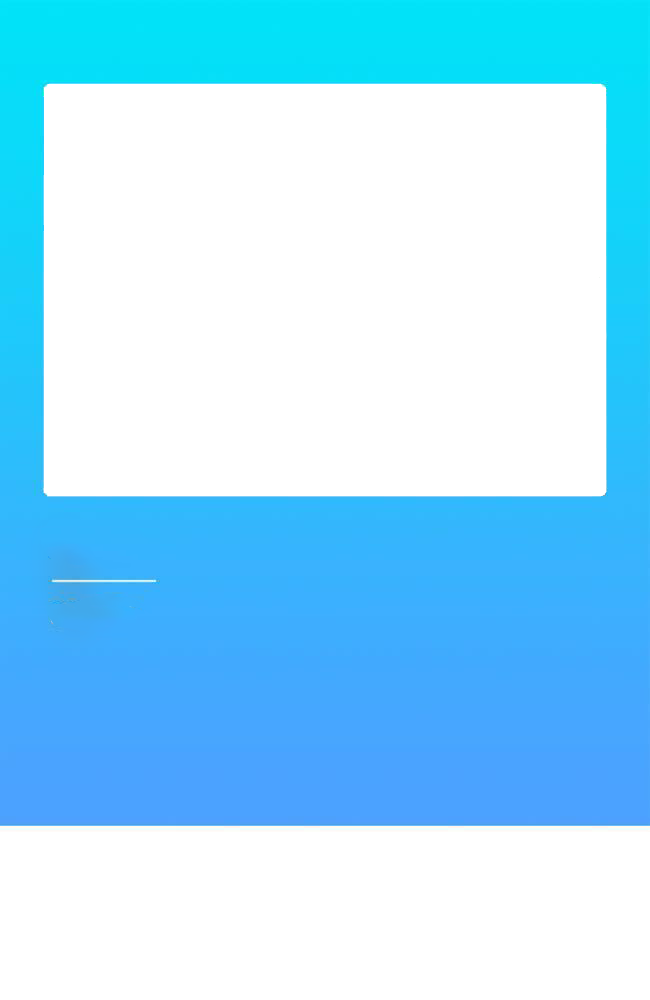
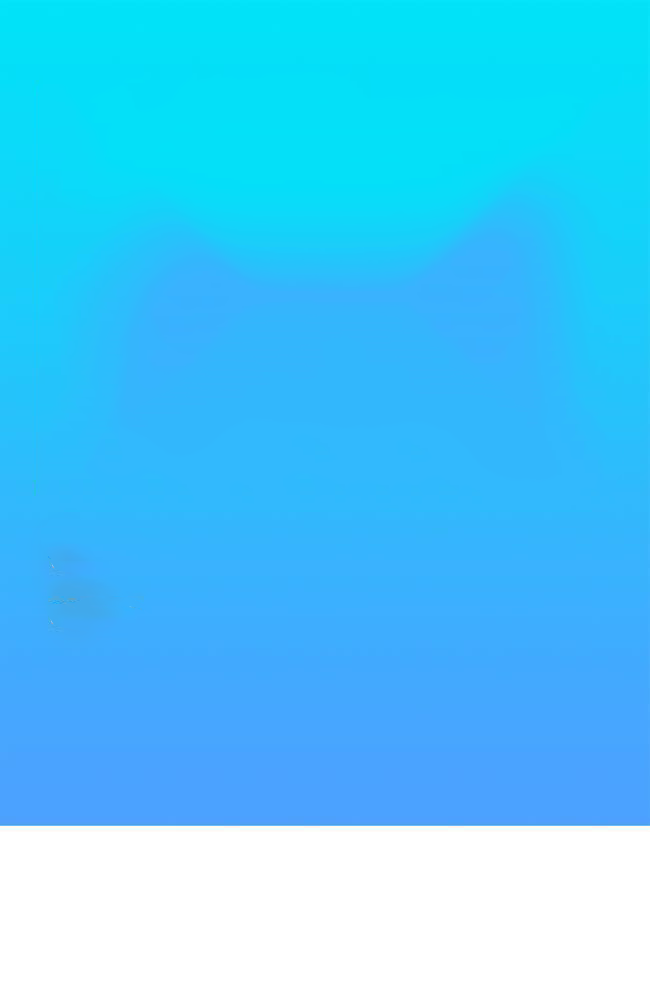
楼盘分享图片生成调整

diff --git a/code/real-estate-sales-wx/utils/image.js b/code/real-estate-sales-wx/utils/image.js
@@ -1,82 +1,171 @@
 export default class LastMayday {
-  palette(bg, articleTitleUrl, code, logo, title, content) {
+  palette(bg, code, logo, contact, title, content, articleTitleUrl1, articleTitleUrl2, articleTitleUrl3, articleTitleUrl4, articleTitleUrl5, articleTitleUrl6) {
     return ({
-      width: '650rpx',
-      height: '1000rpx',
+      width: '680rpx',
+      height: '1246rpx',
       background: bg, //"./../../lib/image/bz_bg.png",//bg
       views: [{
-          type: 'text',
-          text: title, 
+          type: 'image',
+          url: articleTitleUrl1,
           css: {
-            fontSize: '36rpx',
-            top: `${520}rpx`,
+            top: `${10}rpx`,
+            left: `${10}rpx`,
+            mode: 'scaleToFill',
+            width: '320rpx',
+            height: '230rpx',
+            borderWidth: '5rpx',
+            borderColor: '#fff'
+            /*rotate: rotate,*/
+            // borderRadius: borderRadius,
+          },
+        },
+        {
+          type: 'image',
+          url: articleTitleUrl2,
+          css: {
+            top: `${10}rpx`,
+            left: `${350}rpx`,
+            mode: 'scaleToFill',
+            width: '320rpx',
+            height: '230rpx',
+            borderWidth: '5rpx',
+            borderColor: '#fff'
+            /*rotate: rotate,*/
+            // borderRadius: borderRadius,
+          },
+        },
+        {
+          type: 'image',
+          url: articleTitleUrl3,
+          css: {
+            top: `${260}rpx`,
+            left: `${10}rpx`,
+            mode: 'scaleToFill',
+            width: '320rpx',
+            height: '230rpx',
+            borderWidth: '5rpx',
+            borderColor: '#fff'
+            /*rotate: rotate,*/
+            // borderRadius: borderRadius,
+          },
+        },
+        {
+          type: 'image',
+          url: articleTitleUrl4,
+          css: {
+            top: `${260}rpx`,
+            left: `${350}rpx`,
+            mode: 'scaleToFill',
+            width: '320rpx',
+            height: '230rpx',
+            borderWidth: '5rpx',
+            borderColor: '#fff'
+            /*rotate: rotate,*/
+            // borderRadius: borderRadius,
+          },
+        },
+        {
+          type: 'image',
+          url: articleTitleUrl5,
+          css: {
+            top: `${510}rpx`,
+            left: `${10}rpx`,
+            mode: 'scaleToFill',
+            width: '320rpx',
+            height: '230rpx',
+            borderWidth: '5rpx',
+            borderColor: '#fff'
+            /*rotate: rotate,*/
+            // borderRadius: borderRadius,
+          },
+        },
+        {
+          type: 'image',
+          url: articleTitleUrl6,
+          css: {
+            top: `${510}rpx`,
+            left: `${350}rpx`,
+            mode: 'scaleToFill',
+            width: '320rpx',
+            height: '230rpx',
+            borderWidth: '5rpx',
+            borderColor: '#fff'
+            /*rotate: rotate,*/
+            // borderRadius: borderRadius,
+          },
+        },
+        {
+          type: 'image',
+          url: logo,
+          css: {
+            top: `${0}rpx`,
             left: `${50}rpx`,
-            color: '#fff',
+            width: '150rpx',
+            height: '50rpx'
+          },
+        }, 
+        {
+          type: 'text',
+          text: contact,
+          css: {
+            fontSize: '26rpx',
+            bottom: `${100}rpx`,
+            left: `${50}rpx`,
+            color: '#545458',
+            width: '550rpx',
+            fontWeight: 'bold',
+            maxLines: 1,
+          }
+        },
+        {
+          type: 'text',
+          text: title,
+          css: {
+            fontSize: '34rpx',
+            fontWeight: 'bold',
+            bottom: `${160}rpx`,
+            left: `${50}rpx`,
+            color: '#545458',
             width: '550rpx',
             maxLines: 1,
           }
         },
         {
           type: 'text',
-          text: content, 
+          text: content,
           css: {
             fontSize: '26rpx',
-            top: `${600}rpx`,
+            top: `${790}rpx`,
             left: `${50}rpx`,
             color: '#fff',
             width: '550rpx',
-            maxLines: 5,
-            lineHeight: '45rpx'
+            maxLines: 4,
+            lineHeight: '55rpx'
           }
         },
         {
           type: 'text',
-          text: '长按小程序码阅读图文详情',
+          text: '欢迎长按小程序码识别该房源',
           css: {
-            fontSize: '26rpx',
-            bottom: `${30}rpx`,
-            right: `${200}rpx`,
+            fontSize: '20rpx',
+            bottom: `${5}rpx`,
+            left: `${50}rpx`,
+            // right: `${80}rpx`,
             color: '#ccc',
-            width: '160rpx',
-            maxLines: 2,
+            width: '400rpx',
+            maxLines: 1,
             lineHeight: '45rpx'
           }
         },
         {
           type: 'image',
-          url: code, 
+          url: code,
           css: {
-            bottom: `${20}rpx`,
+            bottom: `${60}rpx`,
             right: `${50}rpx`,
             width: '120rpx',
             height: '120rpx',
 
-          },
-        },
-        {
-          type: 'image',
-          url: logo, 
-          css: {
-            bottom: `${20}rpx`,
-            left: `${50}rpx`,
-            width: '120rpx',
-            height: '120rpx',
-            borderRadius: '20rpx'
-          },
-        },
-        {
-          type: 'image',
-          url: articleTitleUrl, 
-          css: {
-            top: `${90}rpx`,
-            left: `${50}rpx`,
-            mode: 'scaleToFill',
-            width: '550rpx',
-            height: '400rpx',
-            borderWidth: '5rpx',
-            borderColor: '#fff'
-            /*rotate: rotate,*/
-            // borderRadius: borderRadius,
           },
         }
       ],

diff --git a/code/real-estate-sales-wx/pages/building/detail/detail.js b/code/real-estate-sales-wx/pages/building/detail/detail.js
@@ -37,7 +37,6 @@ Page({
    * 生命周期函数--监听页面加载
    */
   onLoad: function(options) {
-    debugger
     var source = options.source;
     console.log(options);
 
@@ -136,11 +135,17 @@ Page({
   },
   share: function() {
     let userInfo = wx.getStorageSync('userInfo');
-    var articleTitle = "买房请联系 " + userInfo.phoneNum + "";
+    var articleTitle = this.data.building.name;
+    var contact = "经纪人： " + userInfo.userName + " - " + userInfo.phoneNum + "";
     var articleShareDes = this.data.building.summery;
     // var articleTitleUrl = util.getCurrentPageUrlWithArgs() + "&source=share";
-    var articleTitleUrl = this.data.building.images[0];
-    var miniAppImg = "/images/logo.png";
+    var articleTitleUrl1 = this.data.building.images[0];
+    var articleTitleUrl2 = this.data.building.images[1];
+    var articleTitleUrl3 = this.data.building.images[2];
+    var articleTitleUrl4 = this.data.building.images[3];
+    var articleTitleUrl5 = this.data.building.images[4];
+    var articleTitleUrl6 = this.data.building.images[5];
+    var miniAppImg = "/images/logo-top.png";
     var miniCdoe = "";
     var bgPic = "/images/bg.png";
     app.get("/busRealEstate/gainMiniProgramCode?page=" + util.getCurrentPageUrl() + "&scene=" + this.data.building.id).then(res => {
@@ -148,7 +153,18 @@ Page({
       console.log(res);
       this.setData({
         showShareModal: true,
-        template: new Card().palette(bgPic, articleTitleUrl, miniCdoe, miniAppImg, articleTitle, articleShareDes),
+        template: new Card().palette(bgPic,
+          miniCdoe,
+          miniAppImg,
+          contact,
+          articleTitle,
+          articleShareDes,
+          articleTitleUrl1,
+          articleTitleUrl2,
+          articleTitleUrl3,
+          articleTitleUrl4,
+          articleTitleUrl5,
+          articleTitleUrl6),
       });
     })
 
@@ -161,7 +177,8 @@ Page({
     } else {
       let userInfo = wx.getStorageSync('userInfo');
       return {
-        title: "买房请联系 " + userInfo.phoneNum,
+        // title: "买房请联系 " + userInfo.phoneNum,
+        title: "经纪人： " + userInfo.userName + " - " + userInfo.phoneNum + "",
         path: util.getCurrentPageUrlWithArgs() + "&source=share",
         // imageUrl: this.data.building.images[0]
       }
@@ -174,9 +191,11 @@ Page({
     });
   },
   onImgOK(e) {
+    debugger
     this.setData({
       shareImage: e.detail.path
     })
+    this.eventSave();
   },
   eventSave() {
     let that = this;
@@ -184,7 +203,7 @@ Page({
       scope: 'scope.writePhotosAlbum',
       success() {
         // 用户已经同意小程序使用录音功能，后续调用 wx.startRecord 接口不会弹窗询问
-        console.log(that.data.hasPower)
+        // console.log(that.data.hasPower)
         let imgSrc = that.data.shareImage;
         wx.saveImageToPhotosAlbum({
           filePath: imgSrc,

diff --git a/code/real-estate-sales-wx/app.js b/code/real-estate-sales-wx/app.js
@@ -5,8 +5,9 @@ App({
   globalData: {
     userInfo: null,
     token: null,
+     _baseUrl: 'https://ac.eraop.com'
     // _baseUrl: 'https://inh3rit.top'
-    _baseUrl: 'https://trial.inh3rit.top'
+    // _baseUrl: 'https://trial.inh3rit.top'
     // _baseUrl: 'http://127.0.0.1:8080'
   },
   onLaunch: function() {

diff --git a/code/real-estate-sales-wx/pages/index/index.js b/code/real-estate-sales-wx/pages/index/index.js
@@ -4,7 +4,6 @@ Page({
     topList: [],
     recommendbuildings: [],
     imgUrls: [
-      '/images/banner_01.png',
     ],
     indicatorDots: true,
     autoplay: true,

diff --git a/code/real-estate-sales-wx/pages/building/list.js b/code/real-estate-sales-wx/pages/building/list.js
@@ -90,7 +90,6 @@ Page({
     }
   },
   selected(e) {
-    debugger
     const id = e.detail.value;
     this.setData({
       type: id
